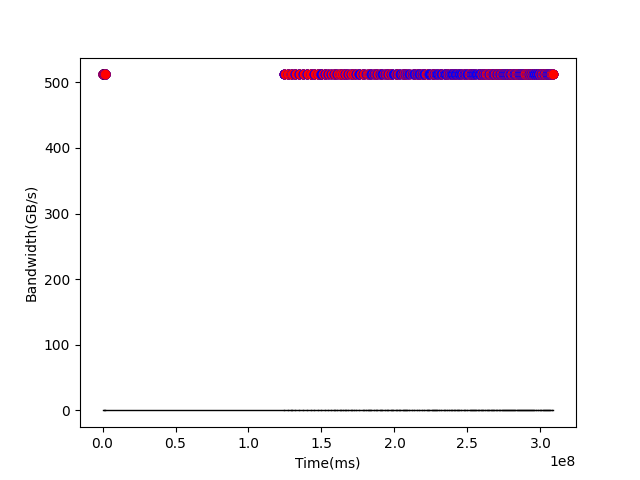
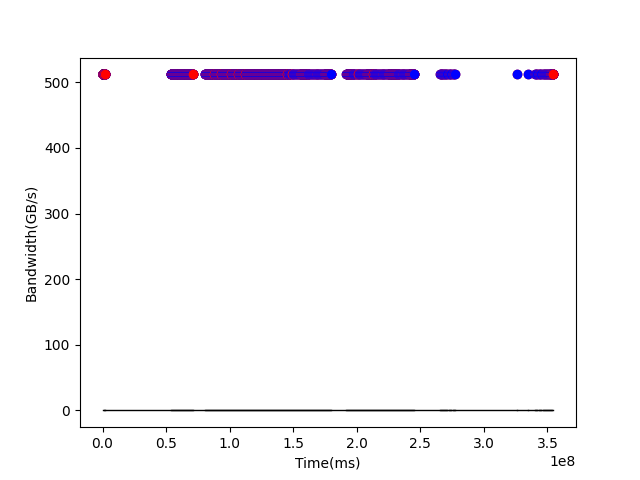
fix zero comm bugs

diff --git a/simpy/main_run.py b/simpy/main_run.py
@@ -7,14 +7,13 @@ import simpy
 import math
 
 if __name__ == '__main__':
-    
     #0 TODO set config info by configparser
     wafer_config={
         'wafer_name':'test',
-        'tile_inter_shape':[2,4],#scale out dimension
+        'tile_inter_shape':[4,4],#scale out dimension
         'tile_intra_shape':[4,4],
-        'tile_intra_noc_bw_GB':1024,
-        'tile_inter_noc_bw_GB':1024*0.6,
+        'tile_intra_noc_bw_GB':1024*1000,
+        'tile_inter_noc_bw_GB':1024*0.6*1000,
         'tile_dram_bw_GB':12288/16/8,
         'tile_dram_capacity_GB':6/16,
         'edge_die_dram_bw_GB':512,
@@ -101,7 +100,7 @@ if __name__ == '__main__':
         noc=wd,
         pipe_type=pipe_strategy.Megatron1F1B
         )
-    gpt_pipe_sim.pipeline_set(boost_mode=True)
+    gpt_pipe_sim.pipeline_set(boost_mode=False)
 
     #5.simpy run  
     ONE_WEEK_MS=24*60*60*7*1000
@@ -109,7 +108,7 @@ if __name__ == '__main__':
     gpt_pipe_sim.simpy_run(until=scale_sim_time)
 
     #6. log and info output
-    gpt_pipe_sim.pipeline_status(clear=True)
+    gpt_pipe_sim.pipeline_status(clear=False)
 
     #res_type='edge_dram' or '3ddram' or 'noc' or 'all'
     wd.resource_visualize(res_type='edge_dram',clear=True)

diff --git a/simpy/wafer_device.py b/simpy/wafer_device.py
@@ -298,6 +298,7 @@ class Wafer_Device():
         chunk_size=comm_size/group_size
         #if DEBUG_MODE:
         #        print("ALL_REDUCE task {} start @ {:.3f} ms".format(task_id,self.env.now))
+        #t_last=self.env.now
         for i in range(group_size-1):
             event_list=[]
             for id_idx in range(group_size-1):
@@ -316,6 +317,8 @@ class Wafer_Device():
             #    print('All-Gather {}/{} phase'.format(i+1,group_size-1))
         #if DEBUG_MODE:
             #    print("ALL_REDUCE task {} end @ {:.3f} ms".format(task_id,self.env.now))
+        #print("ALL_REDUCE task {} end with {:.3f} ms".format(task_id,self.env.now-t_last))
+        
     def ALL_2_ALL_process(self,comm_size,group_id:List[int],task_id,DEBUG_MODE=False):
         # TODO 完成通信原语及其优化
         #yield self.env.timeout(5)

diff --git a/simpy/tile_dataflow.py b/simpy/tile_dataflow.py
@@ -125,6 +125,7 @@ class Tile():# for compute process
             exetime=self.compute_cycles(macs_m)/self.freq/1000/1000 #ns to ms
         else:
             exetime=2*macs_m/self.TOPS/1000 # us to ms
+            #print('1',exetime)
         with self.cp_worker.request() as req:
                 yield req
                 #print("tile_comp_process start @ {:.3f} ms".format(self.env.now))
